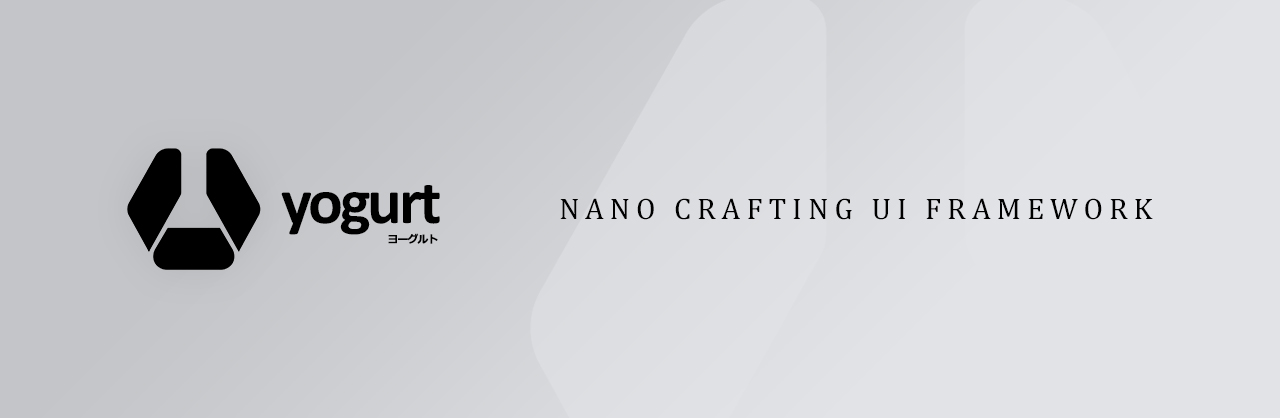
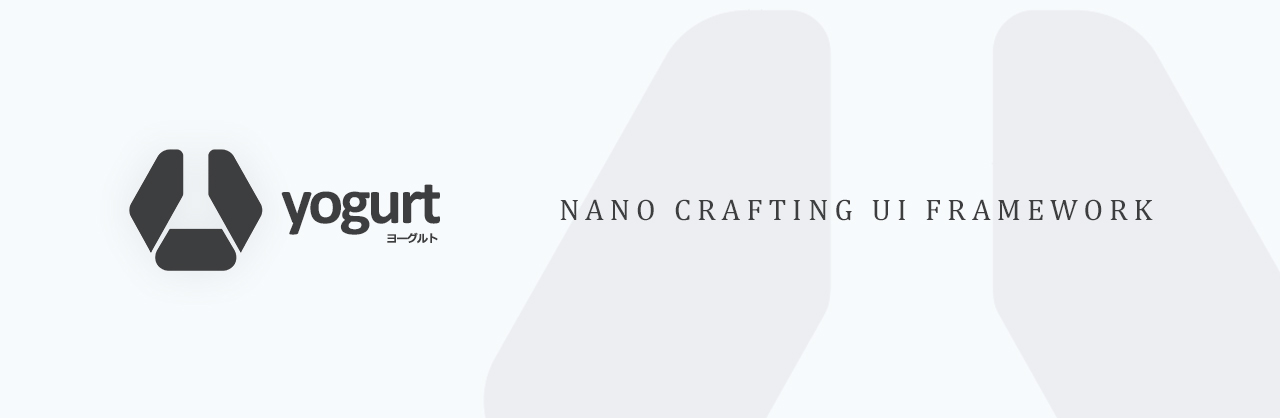
update `index` page

diff --git a/src/index.md b/src/index.md
@@ -8,8 +8,8 @@ layout: home
 {% include "news.njk" %}
 
 <y class="pb-4">
-  <img class="w-full h-full object-cover object-center rounded-lg opacity-75"
-       src="images/content/yogurt_promo.jpg"
+  <img class="w-full h-full object-cover object-center rounded-lg"
+       src="images/content/yogurt_promo.png"
        alt="Yogurt">
 </y>
 
